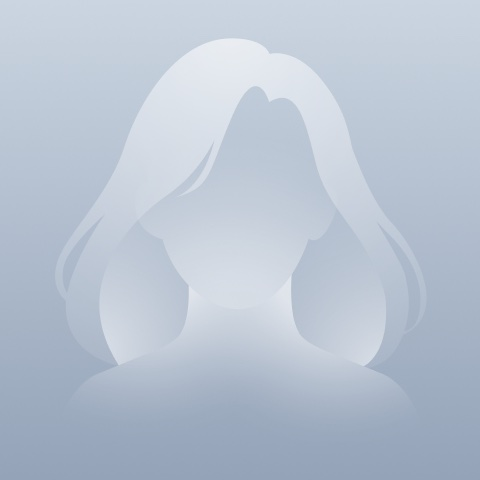
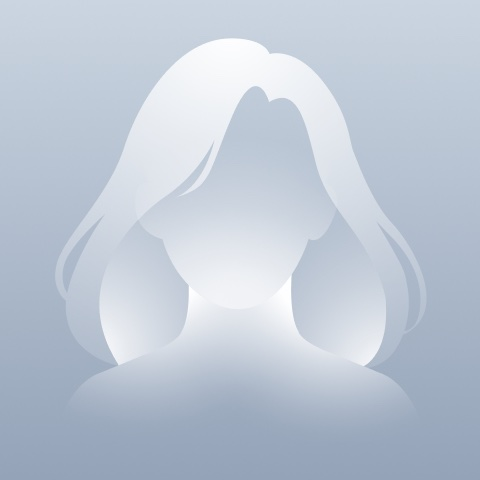
No-photo: overlay brings its own background, brighter silhouette
- sh-overlay No photo / Photo requested has a solid Background
  (sh-avatar-placeholder Full, Show silhouette off; no opacity, no blur),
  then the silhouette, title and button.
- Full background is two stops, neutral/400 -> neutral/black.
- Silhouette at sh-opacity/full.
- Assets (full, 1:1, 4:5, requested) re-exported; blueprint and update
  entry follow.

Changed region(s): [[0.375, 0.5625, 0.625, 0.7188], [0.7188, 0.6875, 0.8125, 0.7812], [0.2188, 0.6562, 0.2812, 0.75]]

diff --git a/components/profile-card/sh-avatar-placeholder/sh-avatar-placeholder.md b/components/profile-card/sh-avatar-placeholder/sh-avatar-placeholder.md
@@ -30,7 +30,7 @@ Profile card (migration, not yet core) · 6 variants · [Open in Figma](https://
 | Aspect Ratio | variant | 1:1, 4:5, Full | 1:1 |
 | Show silhouette | boolean | on, off | on |
 
-Show silhouette off = background only. `sh-user-images` Photo requested and the photo behind `sh-overlay` use that; the overlay's icon slot draws the silhouette, so it is never drawn twice.
+Show silhouette off = background only. `sh-overlay` No photo / Photo requested uses it as its own solid **Background** (no opacity, no blur), then draws the silhouette in its icon slot, so it is never drawn twice and never depends on the photo underneath.
 
 ## Anatomy
 
@@ -41,11 +41,11 @@ Editable in Figma: the background and the silhouette are separate layers, so eit
   - Full: content at the top, padding top `sh-space/40`; the sh-overlay title starts just under the square
   - **Background**: rectangle, absolute, stretches to the frame. Linear gradient, top to bottom:
     - 1:1 and 4:5: `neutral/300` → `neutral/400`
-    - Full: `neutral/300` → `neutral/400` (30%) → `neutral/600` (60%) → `neutral/800`, so white overlay text stays readable
+    - Full: two stops, `neutral/400` → `neutral/black`. Same slate hue all the way down (no dull grey band), pure black at the bottom so white overlay text stays readable
   - **Silhouette** (visible = Show silhouette): square frame, clips content
     - 1:1 and 4:5: fills the width, aspect locked
     - Full: 160 × 160
-    - **Art**: `sh-avatar-silhouette` (Gender) at 1×, filling the square, opacity `sh-opacity/strong`
+    - **Art**: `sh-avatar-silhouette` (Gender) at 1×, filling the square, opacity `sh-opacity/full`
 
 `sh-avatar-silhouette` (Gender Female · Male) is the silhouette art: soft white vectors in a square. Each figure is centred, with an even margin (84% of the square), so nothing touches an edge and both genders are the same size. Change the art there and every placeholder and overlay updates.
 
@@ -63,5 +63,5 @@ Code uses the flattened images in `assets/` (one JPG per Gender × Aspect Ratio,
 |---|---|---|
 | root | radius | Aspect Ratio=1:1 → sh-radius/full; 4:5 and Full → sh-radius/none |
 | root | padding top | Full → sh-space/40; otherwise sh-space/0 |
-| Background | fill | gradient on neutral/300, neutral/400, neutral/600, neutral/800 (see Anatomy) |
-| Silhouette › Art | opacity | sh-opacity/strong |
+| Background | fill | 1:1 and 4:5: neutral/300 → neutral/400; Full: neutral/400 → neutral/black |
+| Silhouette › Art | opacity | sh-opacity/full |

diff --git a/updates/2026-10-29-no-photo-placeholder-is-muted-grey-and-editable.md b/updates/2026-10-29-no-photo-placeholder-is-muted-grey-and-editable.md
@@ -40,6 +40,13 @@
 - Profile-card "Photo request sent" in the No Photo Case showed a member photo behind the overlay; it's back on the grey requested image.
 - A short-lived version (commit 8d8dff7) baked the silhouette into the photo; this replaces it.
 
+## Overlay brings its own background
+- `sh-overlay` No photo / Photo requested (all 4) has a solid **Background**: `sh-avatar-placeholder` Full, Show silhouette off, filling the overlay. No opacity, no blur. Then the silhouette, title and button. Whatever photo sits underneath never shows.
+- Full background is two stops: `neutral/400` → `neutral/black`. The top is darker than before, the bottom pure black, and the middle stays slate (no dull grey band).
+- The silhouette is brighter: `sh-opacity/full` (was strong).
+- Fixed: profile-card "Photo request sent" had a hidden silhouette and a stale baked image behind it.
+- The two standalone grey `sh-user-images` tiles in "No Photo Case" were deleted (not needed; the overlay covers this case).
+
 ## Why
 The pink felt off-brand. Keeping the background and the silhouette as separate layers means either can change later without redrawing the other, and designs use the editable component rather than a pasted image.
 
